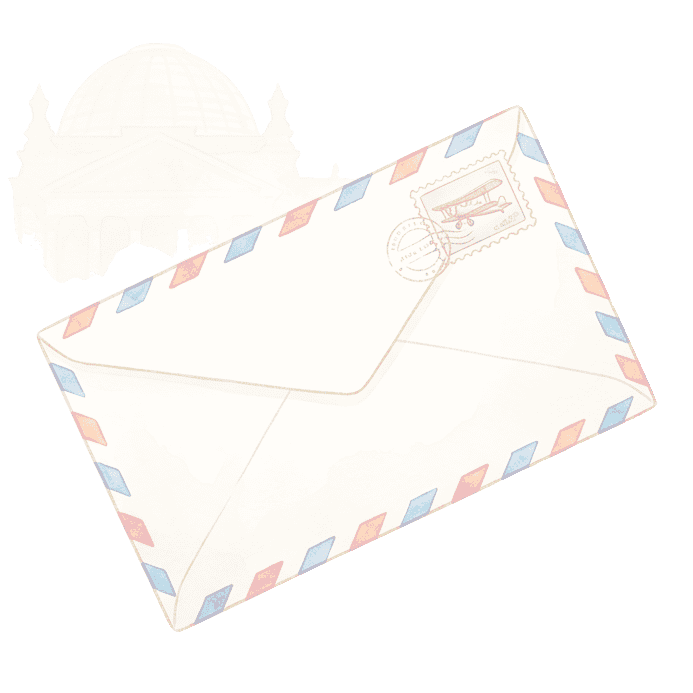
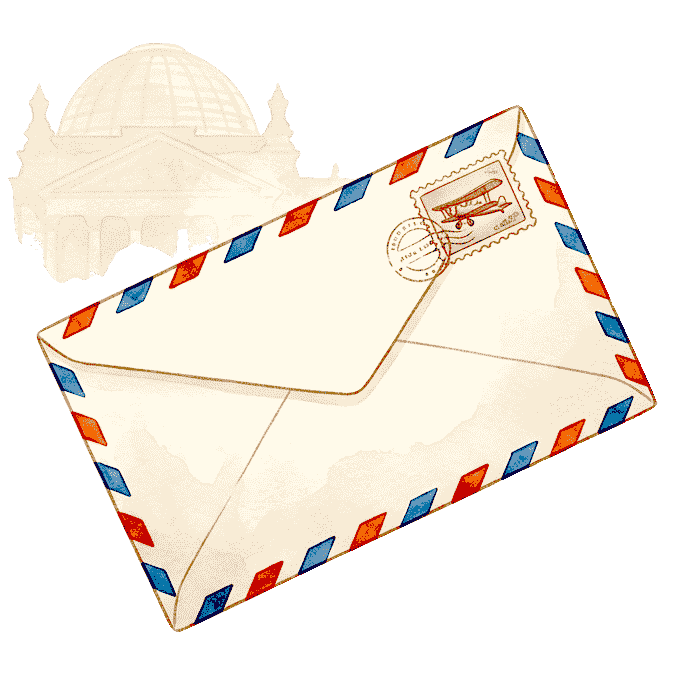
fix(email): grünen Streifen im Intro entfernen, Briefmarke auf volle Deckkraft

Changed region(s): [[0.0, 0.0606, 0.9697, 0.9091]]

diff --git a/web/src/lib/email/buildEmailHtml.ts b/web/src/lib/email/buildEmailHtml.ts
@@ -138,9 +138,7 @@ export function buildEmailHtml(data: SendLetterEmailParams): string {
                 <!-- Intro: warm founder voice -->
                 <tr>
                   <td colspan="7" class="bnb-pad" style="padding:0 32px 20px;background-color:#ffffff;">
-                    <div style="border-left:3px solid rgba(45,80,22,0.45);padding-left:16px;">
-                      <p style="margin:0;font-family:Georgia,'Times New Roman',serif;font-size:15px;color:#4A4A4A;line-height:1.75;">Lies ihn gründlich durch und pass ihn an, damit es dein Brief wird. Dieser Entwurf dient als Schnellstart, <a href="${APP_URL}/brief-verbessern" target="_blank" rel="noopener noreferrer" style="color:#2D5016;text-decoration:underline;">verbessere ihn gern</a>, damit er sich wirklich nach dir anhört.<br>Bitte bewerte anschließend deinen Brief 🙏 Danke, dass du dich engagierst!</p>
-                    </div>
+                    <p style="margin:0;font-family:Georgia,'Times New Roman',serif;font-size:15px;color:#4A4A4A;line-height:1.75;">Lies ihn gründlich durch und pass ihn an, damit es dein Brief wird. Dieser Entwurf dient als Schnellstart, <a href="${APP_URL}/brief-verbessern" target="_blank" rel="noopener noreferrer" style="color:#2D5016;text-decoration:underline;">verbessere ihn gern</a>, damit er sich wirklich nach dir anhört.<br>Bitte bewerte anschließend deinen Brief 🙏 Danke, dass du dich engagierst!</p>
                   </td>
                 </tr>
 